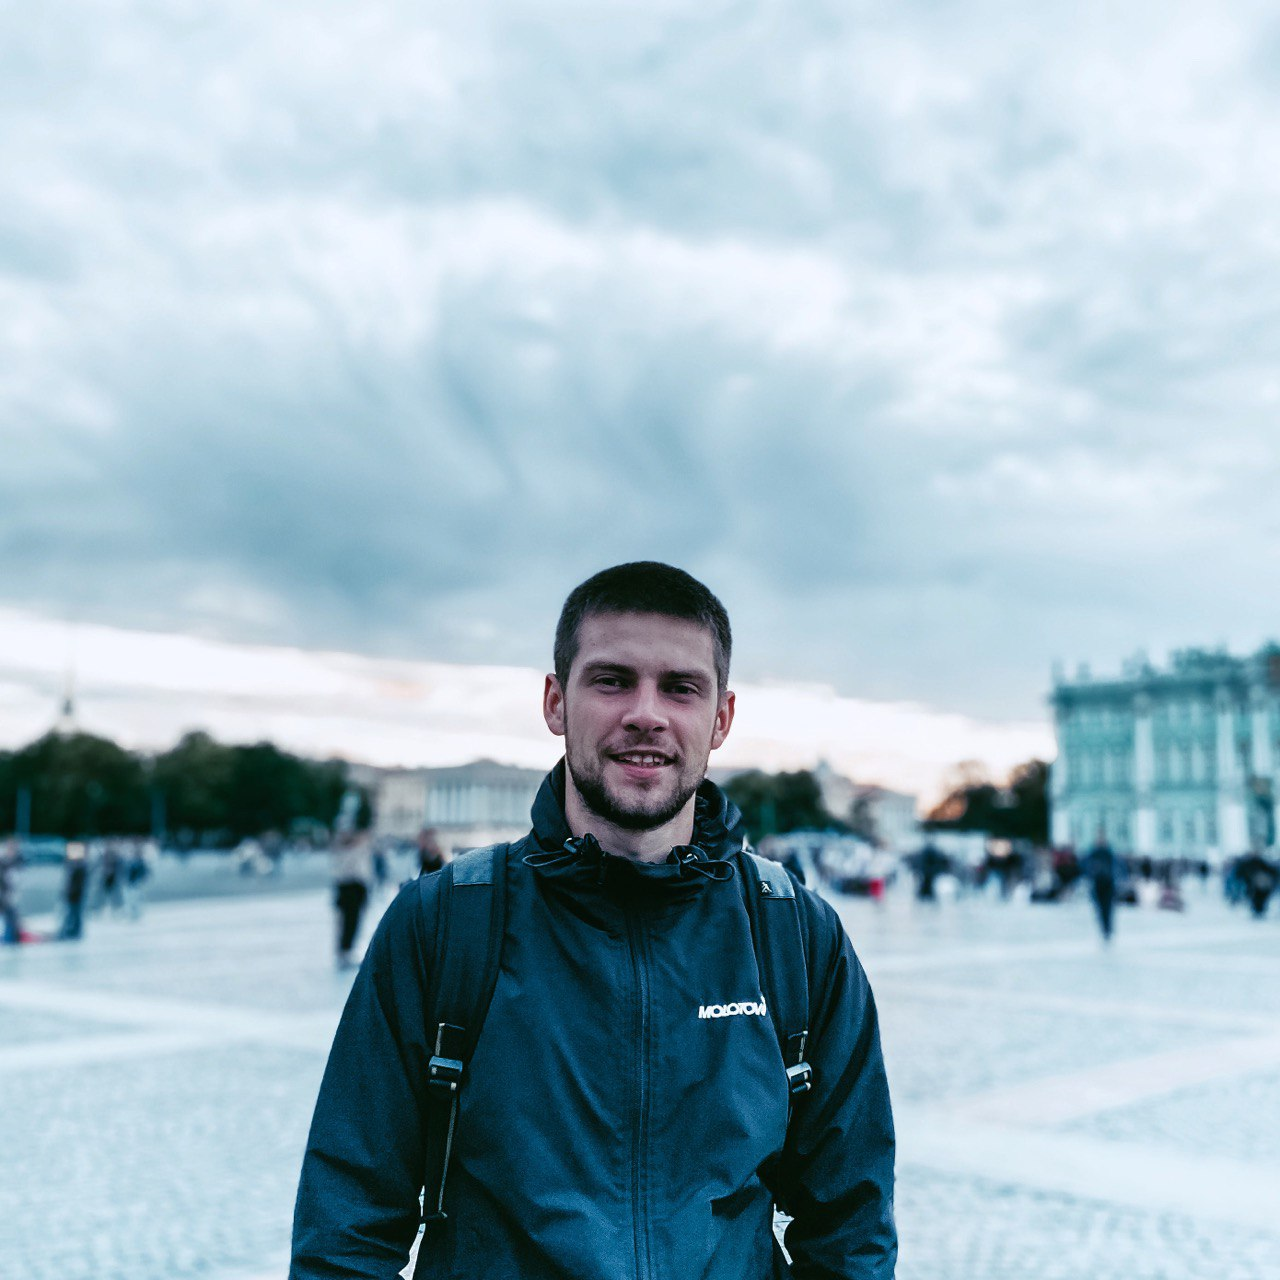
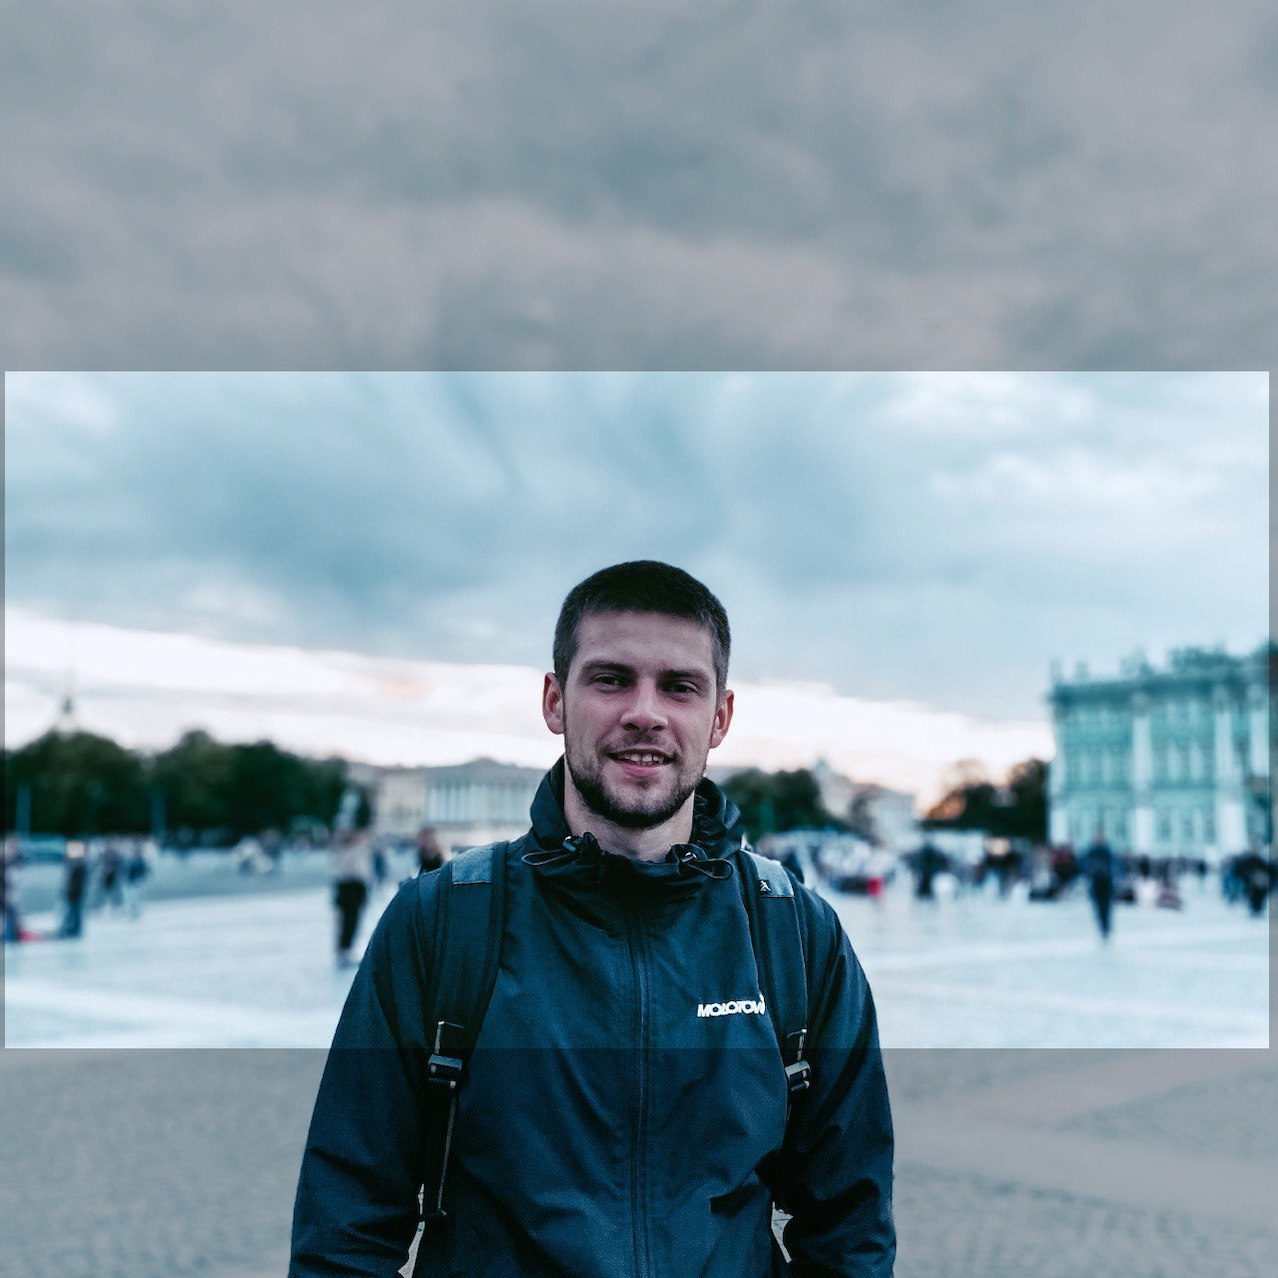
Block Home + header

diff --git a/src/less/home.less b/src/less/home.less
@@ -1,10 +1,11 @@
 .home {
+  height: 100vh;
   &__content {
-    height: 200px;
     display: flex;
     flex-direction: row;
     justify-content: space-between;
-    align-items: center;
+    align-items: flex-end;
+    padding: 45px 0;
 
     &_name {
       line-height: 59px;
@@ -12,6 +13,30 @@
       color: @black-main;
       white-space: pre-line;
       word-wrap: break-word;
+    }
+
+    &_language {
+      transform: rotate(-90deg);
+      position: relative;
+      left: 20px;
+      bottom: 20px;
+      button {
+        background: none;
+        border: 0;
+        cursor: pointer;
+        p {
+          color: @gray;
+        }
+        p.eng, p.ru {
+          color: @black-main;
+          font-weight: 700;
+        }
+      }
+    }
+  }
+  &_img {
+    img {
+      width: 100%;
     }
   }
 }

diff --git a/src/js/home.js b/src/js/home.js
@@ -1,0 +1,13 @@
+const buttons = document.querySelectorAll('.home__content_language button'),
+  html = document.getElementsByTagName('html')[0];
+
+Array.from(buttons).forEach((button)=>{
+  button.addEventListener('click', (e)=>{
+    console.log(e.target.innerText)
+    if (e.target.innerText === 'RU') {
+      html.setAttribute('lang', 'ru')
+    } else if (e.target.innerText === 'ENG'){
+      html.setAttribute('lang', 'en')
+    }
+  })
+})

diff --git a/src/less/header.less b/src/less/header.less
@@ -8,12 +8,14 @@
   border-bottom: 1px solid @gray;
   background-color: white;
   max-width: inherit;
+  z-index: 2;
   &_item {
     font-size: 18px;
     line-height: 23px;
     font-weight: 500;
     padding: 0 10px;
     color: @gray;
+    cursor: pointer;
     &:hover {
       color: @black-main;
       font-weight: 600;

diff --git a/src/less/index.less b/src/less/index.less
@@ -2,6 +2,10 @@
 @import "fonts";
 @import "colors";
 
+html {
+  scroll-behavior: smooth;
+}
+
 html[lang="ru"] [lang="en"] {
   display: none;
 }
@@ -14,3 +18,4 @@ main > * {
 
 @import "header";
 @import "home";
+@import "about";

diff --git a/src/less/reset.less b/src/less/reset.less
@@ -78,3 +78,8 @@ select {
     scroll-behavior: auto !important;
   }
 }
+
+a {
+  text-decoration: none;
+  color: inherit;
+}

diff --git a/src/less/about.less b/src/less/about.less
@@ -1,0 +1,4 @@
+.about {
+  background-color: #f6f6f6;
+  height: 100vh;
+}
